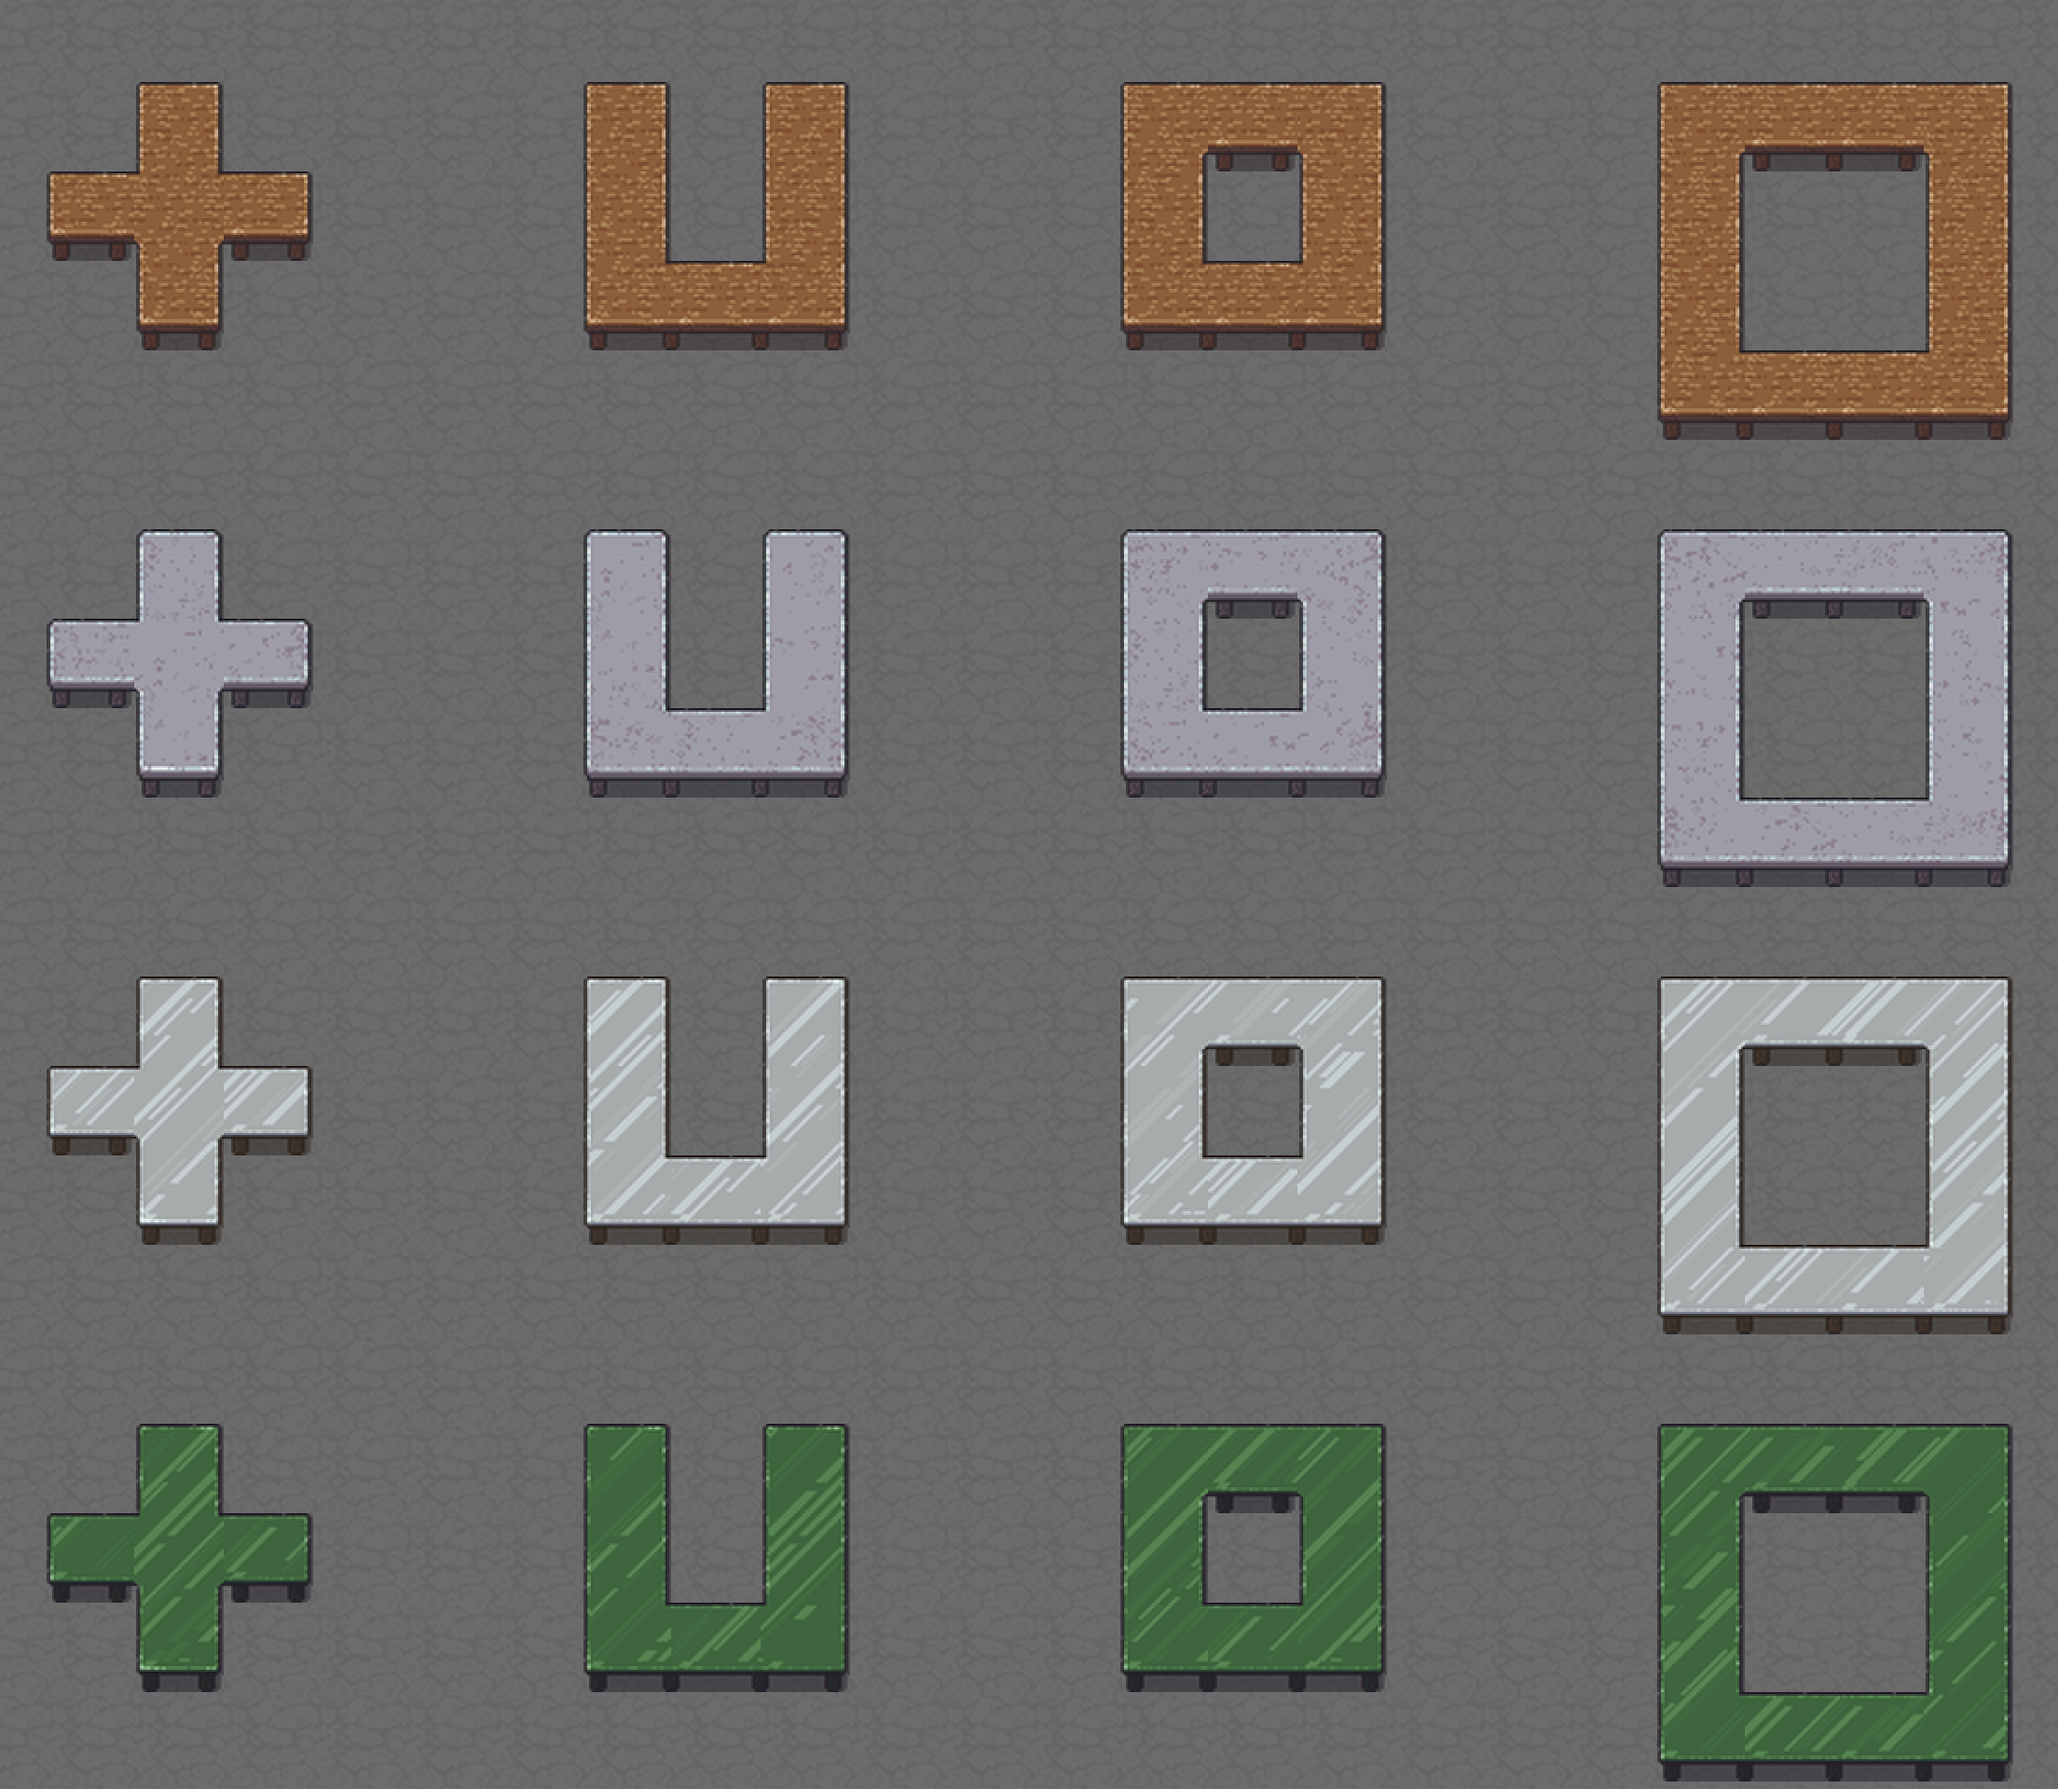
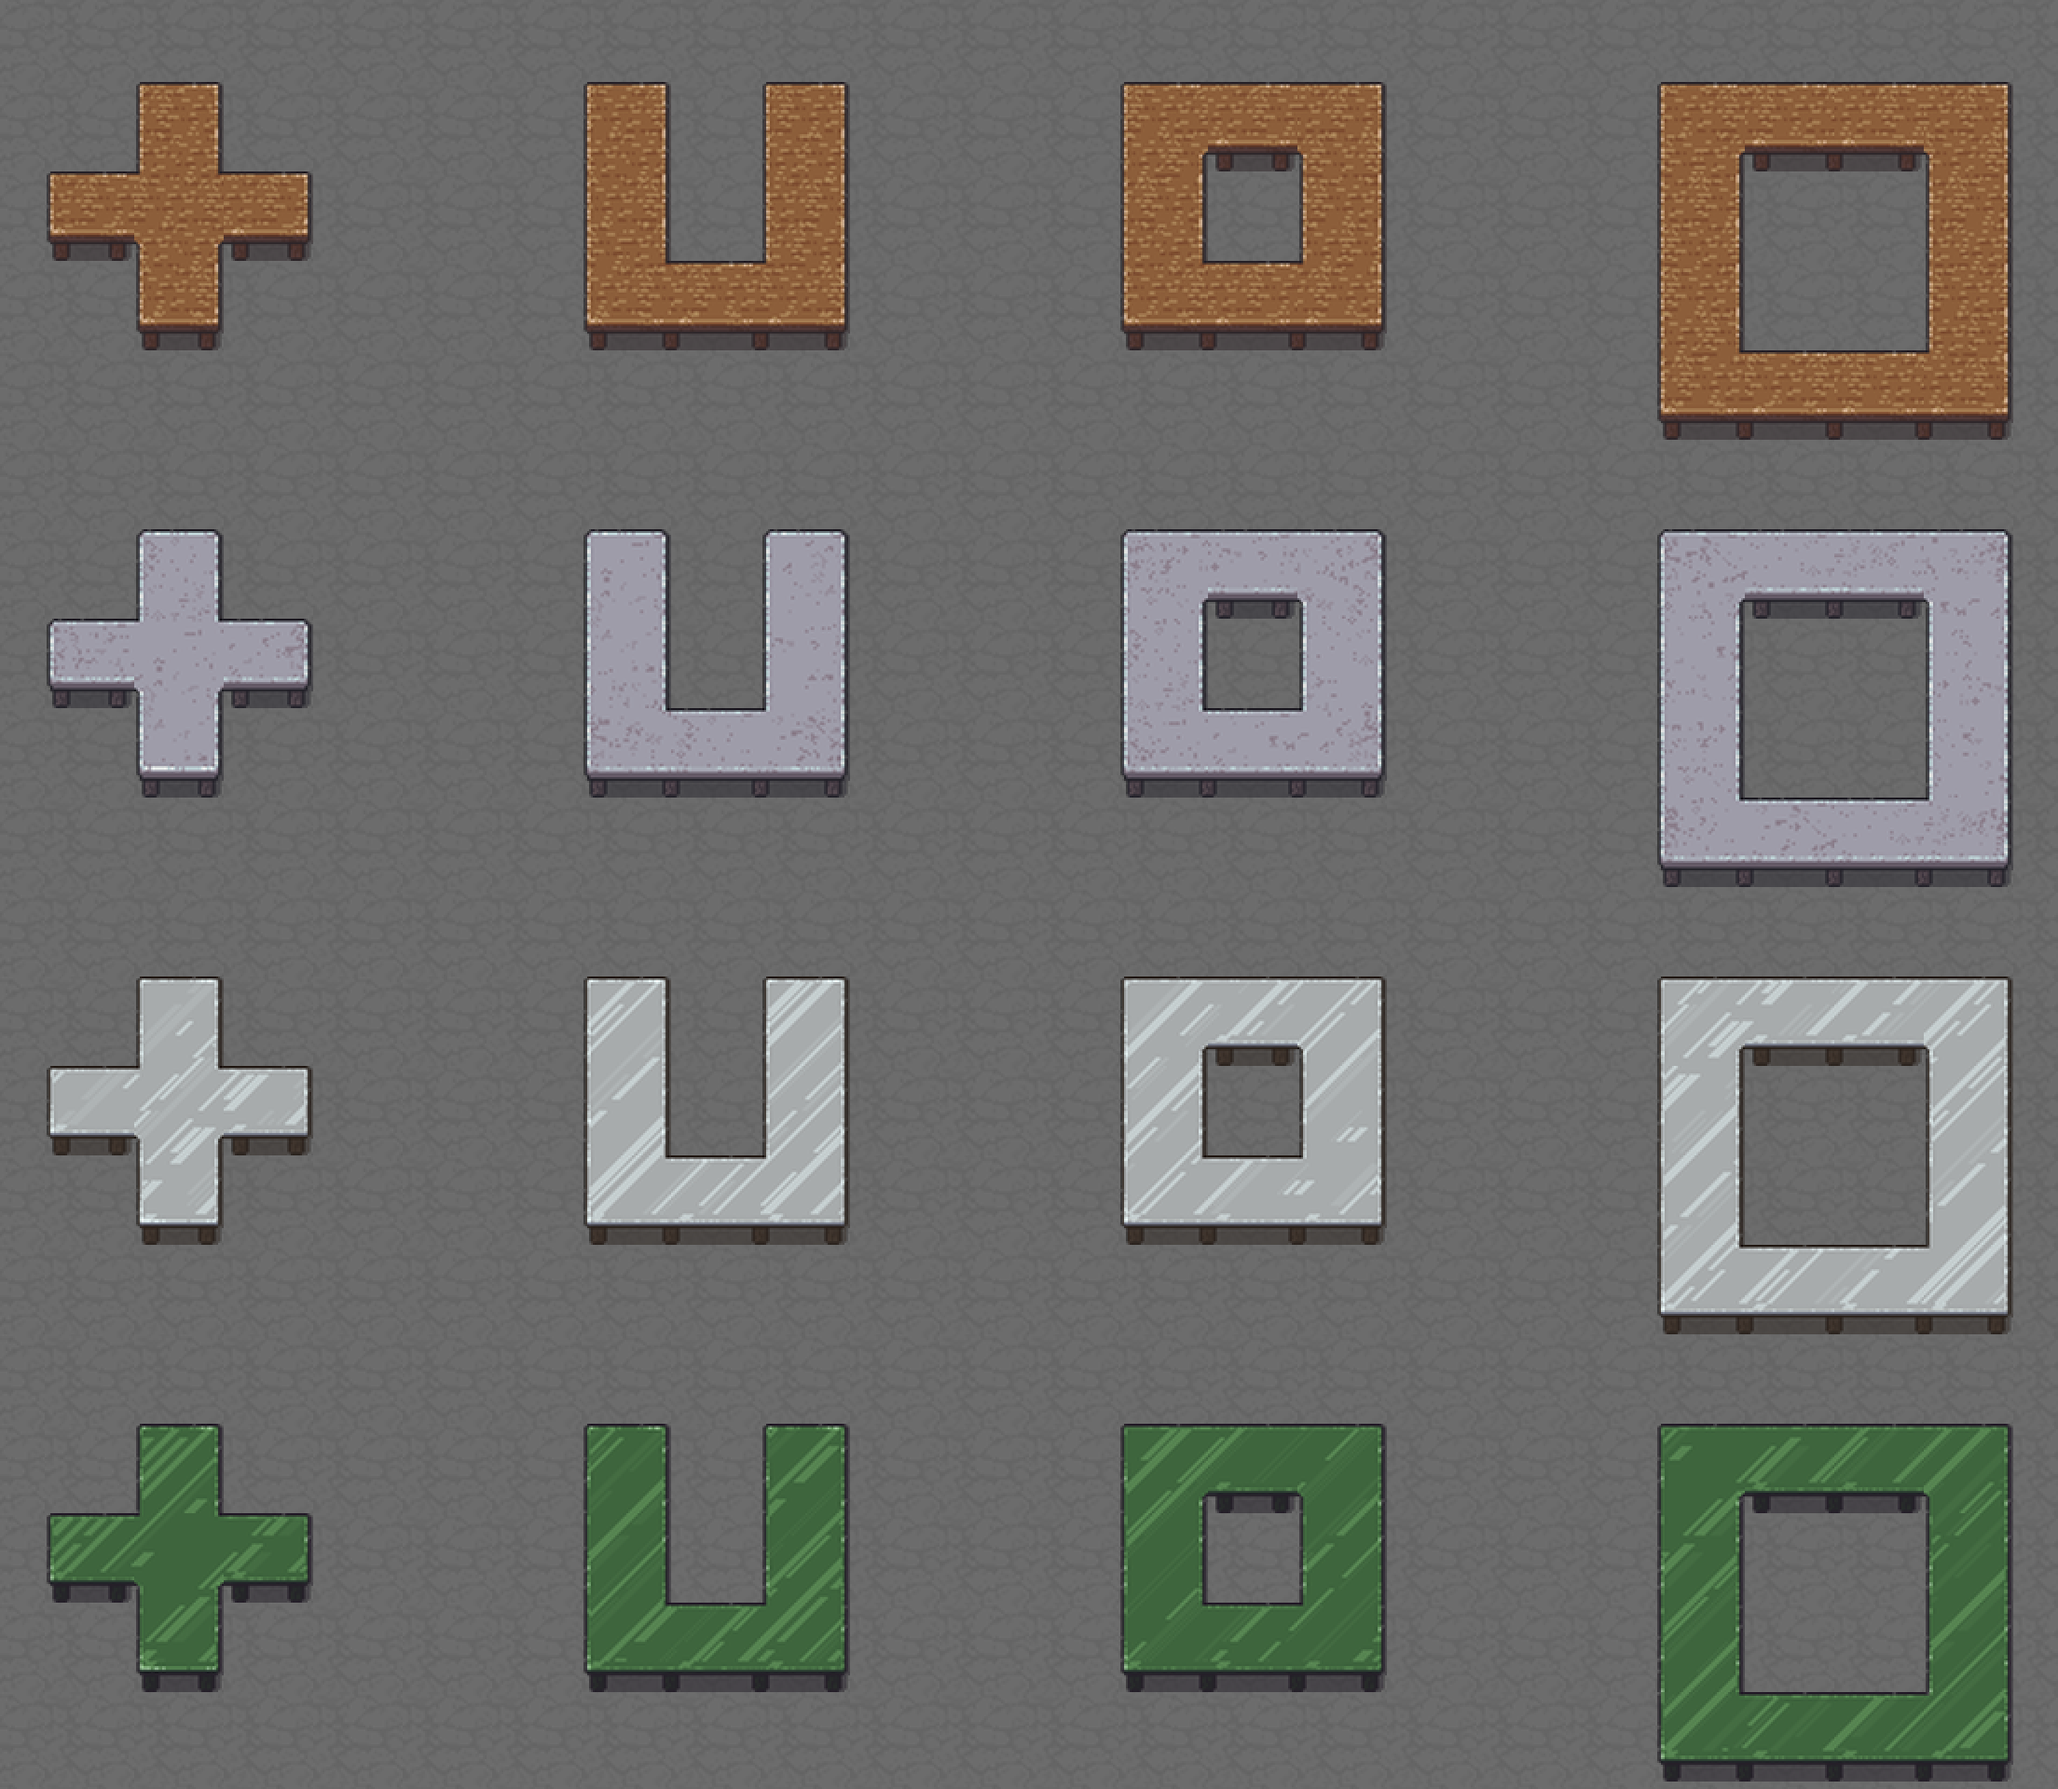
Metal and glass: one streak pattern over the whole map, so arms fit the deep part of a plus, L or T

diff --git a/README.md b/README.md
@@ -103,8 +103,6 @@ python3 art/make_template.py --check   # the template matches the art
 ## Known limitations
 
 - Fortress mode with the graphical tiles only; no ASCII, no adventure mode.
-- On metal and glass, the slanted streaks carry on down a wide table but do not always line
-  up where a one-tile arm meets it (the centre of a plus, say).
 - If a tool cancels a removal job half way, the table can look joined for up to about twenty seconds more.
 - A mod that replaces the game's table sprite is not picked up: joined tables are drawn from
   the vanilla table, lone tables by the game.
